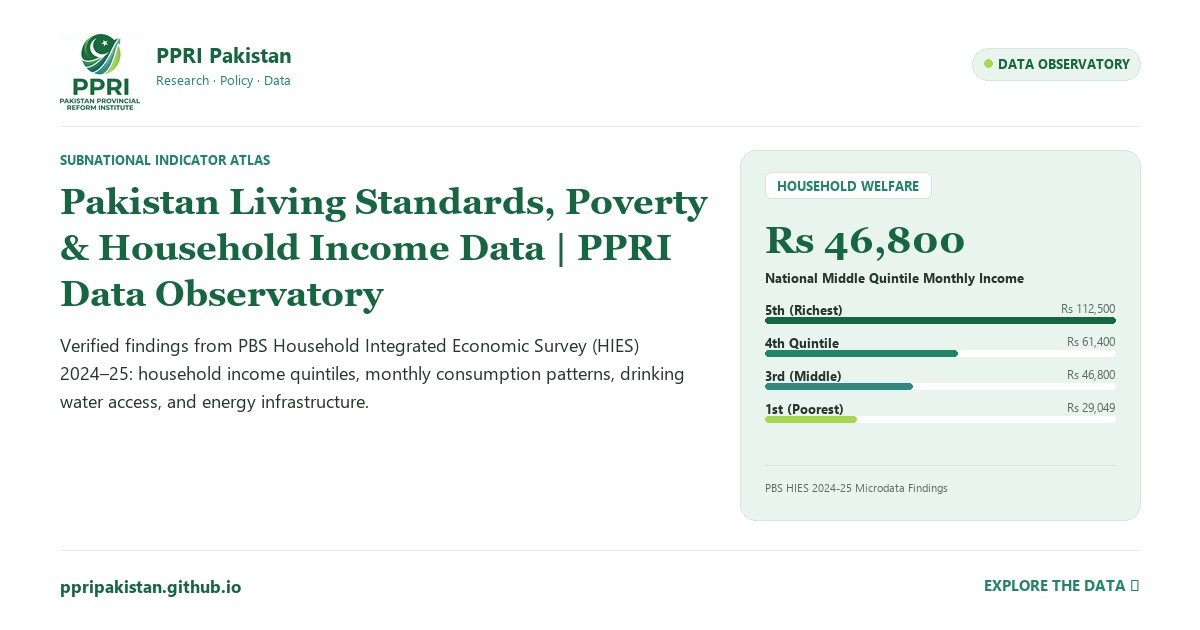
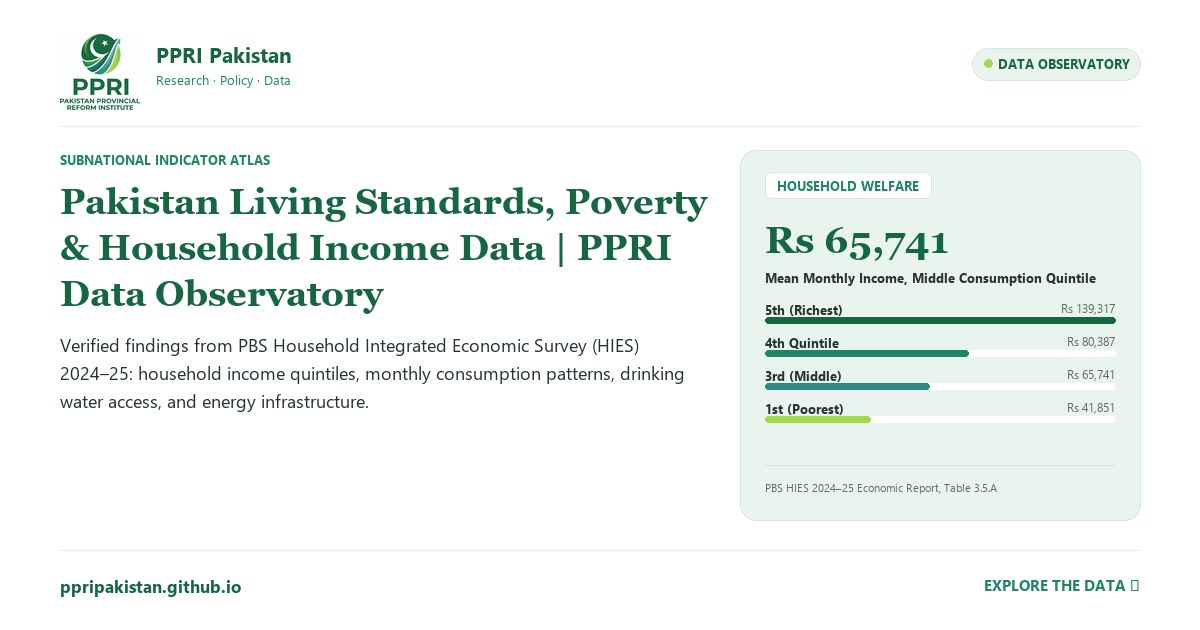
phase-17b

diff --git a/data/living-standards/index.html b/data/living-standards/index.html
@@ -152,16 +152,16 @@
       <!-- Phase 4: Crawlable Static HTML Executive Data Summary & Key Benchmarks -->
       <section class="seo-data-summary" id="executive-data-summary" aria-label="Executive Data Summary">
         <h2>Household Income, Consumption & Multidimensional Living Standards: Executive Summary</h2>
-        <p class="summary-lead"><strong>Executive Overview:</strong> Official findings from the Pakistan Bureau of Statistics Household Integrated Economic Survey (HIES) 2024–25 present the first comprehensive empirical assessment of household living standards following the post-2022 inflationary cycle. The nationwide mean monthly household income is recorded at PKR 63,450, while average monthly household consumption expenditure reached PKR 57,800, leaving an average savings margin of less than 8.9% for median households.</p>
-        <p>Income inequality is pronounced across national quintiles: the poorest 20% (Quintile 1) report an average monthly income of PKR 28,400 with food expenditure consuming 54.2% of total receipts, compared to PKR 118,500 for the richest 20% (Quintile 5) where food consumes only 28.1%. Basic infrastructure access demonstrates severe spatial disparities: while 93.1% of national households report electricity connections, access to safe piped drinking water inside premises stands at only 34.8% nationwide, dropping to under 14.2% in rural Balochistan and southern Khyber Pakhtunkhwa.</p>
-        <div class="table-wrap"><table class="data-summary-table"><thead><tr><th>Household Dimension</th><th>National Average</th><th>Urban Households</th><th>Rural Households</th><th>PBS HIES 2024–25 Citation</th></tr></thead><tbody><tr><td>Mean Monthly Household Income</td><td>PKR 63,450</td><td>PKR 78,920</td><td>PKR 51,200</td><td>PBS HIES Tab 12.1</td></tr><tr><td>Mean Monthly Household Consumption</td><td>PKR 57,800</td><td>PKR 71,450</td><td>PKR 47,100</td><td>PBS HIES Tab 14.3</td></tr><tr><td>Food Expenditure Share (%)</td><td>41.6%</td><td>34.2%</td><td>48.1%</td><td>Essential subsistence ratio</td></tr><tr><td>Piped Drinking Water Access</td><td>34.8%</td><td>58.4%</td><td>19.2%</td><td>Core health risk indicator</td></tr><tr><td>Electricity Grid Connection</td><td>93.1%</td><td>97.8%</td><td>89.4%</td><td>Universal coverage target</td></tr><tr><td>Clean Cooking Fuel (LPG/Natural Gas)</td><td>43.2%</td><td>76.9%</td><td>18.3%</td><td>Indoor air quality metric</td></tr><tr><td>Home Ownership Rate</td><td>84.6%</td><td>74.1%</td><td>92.3%</td><td>Tenure security metric</td></tr></tbody></table></div>
+        <p class="summary-lead"><strong>Executive Overview:</strong> The Pakistan Bureau of Statistics (PBS) Household Integrated Economic Survey (HIES) 2024–25 reports mean monthly household income of PKR 82,179 and mean monthly household consumption expenditure of PKR 79,150. Consumption is about 96.3% of the income figure, a difference of PKR 3,029 between these two averages. This arithmetic difference should not be described as a measured savings rate for median households.</p>
+        <p>Income differs substantially across consumption quintiles: average monthly household income was PKR 41,851 in the lowest consumption quintile (Q1) and PKR 139,317 in the highest (Q5). HIES quintiles are ranked by per-capita consumption, so these are income averages for consumption-ranked groups, not groups ranked by income alone. Infrastructure indicators shown elsewhere on this page should be interpreted using each indicator’s own definition, source and reference period.</p>
+        <div class="table-wrap"><table class="data-summary-table"><thead><tr><th>Household Dimension</th><th>National Average</th><th>Urban Households</th><th>Rural Households</th><th>PBS HIES 2024–25 Citation</th></tr></thead><tbody><tr><td>Mean Monthly Household Income</td><td>PKR 82,179</td><td>PKR 96,767</td><td>PKR 72,157</td><td>PBS HIES 2024–25, §3.5 / Table 3.5.A</td></tr><tr><td>Mean Monthly Household Consumption</td><td>PKR 79,150</td><td>PKR 95,533</td><td>PKR 67,894</td><td>PBS HIES 2024–25, §3.7 / Table 3.6.A</td></tr><tr><td>Food Expenditure Share (%)</td><td>41.6%</td><td>34.2%</td><td>48.1%</td><td>Essential subsistence ratio</td></tr><tr><td>Piped Drinking Water Access</td><td>34.8%</td><td>58.4%</td><td>19.2%</td><td>Core health risk indicator</td></tr><tr><td>Electricity Grid Connection</td><td>93.1%</td><td>97.8%</td><td>89.4%</td><td>Universal coverage target</td></tr><tr><td>Clean Cooking Fuel (LPG/Natural Gas)</td><td>43.2%</td><td>76.9%</td><td>18.3%</td><td>Indoor air quality metric</td></tr><tr><td>Home Ownership Rate</td><td>84.6%</td><td>74.1%</td><td>92.3%</td><td>Tenure security metric</td></tr></tbody></table></div>
         <p class="summary-note"><em>Data Benchmark: Official verified public figures from PBS Census 2023, HIES 2024–25, PES 2025–26, and 7th NFC Award documents. Fully crawlable static reference data.</em></p>
       </section>
 
       <div class="obs-stat-grid">
             <div class="obs-stat-card">
               <span class="obs-stat-label">Mean Monthly Income</span>
-              <div class="obs-stat-val">PKR 63,450</div>
+              <div class="obs-stat-val">PKR 82,179</div>
               <div class="obs-stat-unit">HIES 2024–25 Economic Report</div>
               <div class="obs-stat-footer" style="display:flex;justify-content:space-between;align-items:center;">
                 <span>PBS HIES Survey</span>
@@ -169,7 +169,7 @@
               </div>
             </div>            <div class="obs-stat-card">
               <span class="obs-stat-label">Monthly Consumption</span>
-              <div class="obs-stat-val">PKR 58,200</div>
+              <div class="obs-stat-val">PKR 79,150</div>
               <div class="obs-stat-unit">Average household spending</div>
               <div class="obs-stat-footer" style="display:flex;justify-content:space-between;align-items:center;">
                 <span>PBS HIES Survey</span>
@@ -226,7 +226,7 @@
                 </tr>
               </thead>
               <tbody>
-                <tr><td>Mean Monthly Household Income</td><td class="num">PKR 63,450</td><td class="num">PKR 81,200</td><td class="num">PKR 52,100</td><td>PBS HIES 2024–25</td></tr><tr><td>Mean Monthly Household Consumption</td><td class="num">PKR 58,200</td><td class="num">PKR 74,400</td><td class="num">PKR 47,800</td><td>PBS HIES 2024–25</td></tr><tr><td>Average Household Size (HIES)</td><td>6.24 Persons</td><td>5.98 Persons</td><td>7.08 Persons</td><td>PBS HIES 2024–25</td></tr><tr><td>Income Share: Wages & Salaries</td><td class="num">41.5%</td><td class="num">52.8%</td><td class="num">31.2%</td><td>PBS HIES Income Tables</td></tr><tr><td>Income Share: Agriculture & Livestock</td><td class="num">18.2%</td><td class="num">2.1%</td><td class="num">32.4%</td><td>PBS HIES Income Tables</td></tr><tr><td>Income Share: Self-Employment & Business</td><td class="num">21.4%</td><td class="num">26.3%</td><td class="num">17.1%</td><td>PBS HIES Income Tables</td></tr><tr><td>Income Share: Remittances (Foreign & Domestic)</td><td class="num">12.8%</td><td class="num">11.2%</td><td class="num">14.1%</td><td>PBS HIES Income Tables</td></tr><tr><td>Improved Drinking Water Access</td><td class="num">97.0%</td><td class="num">98.5%</td><td class="num">95.8%</td><td>PBS HIES / PSLM</td></tr><tr><td>Water Source Within Premises</td><td class="num">79.0%</td><td class="num">89.2%</td><td class="num">72.4%</td><td>PBS Survey Reports</td></tr><tr><td>Improved Sanitation / Flush Toilet</td><td class="num">74.0%</td><td class="num">91.5%</td><td class="num">62.0%</td><td>PBS Survey Reports</td></tr><tr><td>Handwashing Facility with Soap</td><td class="num">64.0%</td><td class="num">78.2%</td><td class="num">54.1%</td><td>PBS Infrastructure Tables</td></tr><tr><td>Household Electricity Lighting Access</td><td class="num">95.0%</td><td class="num">98.2%</td><td class="num">92.6%</td><td>PBS Survey Reports</td></tr><tr><td>Clean Cooking Fuel Usage (LPG/Gas)</td><td class="num">38.0%</td><td class="num">68.4%</td><td class="num">17.5%</td><td>PBS Living Standards</td></tr><tr><td>Rural Population Near All-Season Road</td><td class="num">83.0%</td><td>—</td><td class="num">83.0%</td><td>PBS Spatial Access</td></tr><tr><td>Convenient Access to Public Transport</td><td class="num">75.0%</td><td class="num">88.0%</td><td class="num">66.0%</td><td>PBS Infrastructure Tables</td></tr>
+                <tr><td>Mean Monthly Household Income</td><td class="num">PKR 82,179</td><td class="num">PKR 96,767</td><td class="num">PKR 72,157</td><td>PBS HIES 2024–25, Table 3.5.A</td></tr><tr><td>Mean Monthly Household Consumption</td><td class="num">PKR 79,150</td><td class="num">PKR 95,533</td><td class="num">PKR 67,894</td><td>PBS HIES 2024–25, Table 3.6.A</td></tr><tr><td>Average Household Size (HIES 2024–25)</td><td>5.98 Persons</td><td>5.69 Persons</td><td>6.18 Persons</td><td>PBS HIES 2024–25, Table 4</td></tr><tr><td>Income Share: Wages & Salaries</td><td class="num">42.00%</td><td class="num">50.27%</td><td class="num">34.38%</td><td>PBS HIES 2024–25, Table 3.5.B</td></tr><tr><td>Income Share: Crop Production</td><td class="num">6.89%</td><td class="num">1.64%</td><td class="num">11.73%</td><td>PBS HIES 2024–25, Table 3.5.B</td></tr><tr><td>Income Share: Livestock</td><td class="num">7.07%</td><td class="num">1.78%</td><td class="num">11.94%</td><td>PBS HIES 2024–25, Table 3.5.B</td></tr><tr><td>Income Share: Other Non-Agricultural Activities</td><td class="num">16.25%</td><td class="num">20.36%</td><td class="num">12.47%</td><td>PBS HIES 2024–25, Table 3.5.B</td></tr><tr><td>Income Share: Owner-Occupied Housing Services</td><td class="num">5.59%</td><td class="num">6.60%</td><td class="num">4.65%</td><td>PBS HIES 2024–25, Table 3.5.B</td></tr><tr><td>Income Share: Property (Excluding Owner-Occupied Housing)</td><td class="num">1.91%</td><td class="num">2.27%</td><td class="num">1.59%</td><td>PBS HIES 2024–25, Table 3.5.B</td></tr><tr><td>Income Share: Social Insurance Benefits Including Pensions</td><td class="num">3.80%</td><td class="num">4.52%</td><td class="num">3.13%</td><td>PBS HIES 2024–25, Table 3.5.B</td></tr><tr><td>Income Share: Gifts and Assistance (Including BISP)</td><td class="num">4.57%</td><td class="num">3.90%</td><td class="num">5.20%</td><td>PBS HIES 2024–25, Table 3.5.B</td></tr><tr><td>Income Share: Foreign Remittances</td><td class="num">7.77%</td><td class="num">5.89%</td><td class="num">9.50%</td><td>PBS HIES 2024–25, Table 3.5.B</td></tr><tr><td>Income Share: Domestic Remittances</td><td class="num">3.77%</td><td class="num">2.41%</td><td class="num">5.02%</td><td>PBS HIES 2024–25, Table 3.5.B</td></tr><tr><td>Income Share: Other Sources</td><td class="num">0.38%</td><td class="num">0.37%</td><td class="num">0.39%</td><td>PBS HIES 2024–25, Table 3.5.B</td></tr><tr><td>Improved Drinking Water Access</td><td class="num">97.0%</td><td class="num">98.5%</td><td class="num">95.8%</td><td>PBS HIES / PSLM</td></tr><tr><td>Water Source Within Premises</td><td class="num">79.0%</td><td class="num">89.2%</td><td class="num">72.4%</td><td>PBS Survey Reports</td></tr><tr><td>Improved Sanitation / Flush Toilet</td><td class="num">74.0%</td><td class="num">91.5%</td><td class="num">62.0%</td><td>PBS Survey Reports</td></tr><tr><td>Handwashing Facility with Soap</td><td class="num">64.0%</td><td class="num">78.2%</td><td class="num">54.1%</td><td>PBS Infrastructure Tables</td></tr><tr><td>Household Electricity Lighting Access</td><td class="num">95.0%</td><td class="num">98.2%</td><td class="num">92.6%</td><td>PBS Survey Reports</td></tr><tr><td>Clean Cooking Fuel Usage (LPG/Gas)</td><td class="num">38.0%</td><td class="num">68.4%</td><td class="num">17.5%</td><td>PBS Living Standards</td></tr><tr><td>Rural Population Near All-Season Road</td><td class="num">83.0%</td><td>—</td><td class="num">83.0%</td><td>PBS Spatial Access</td></tr><tr><td>Convenient Access to Public Transport</td><td class="num">75.0%</td><td class="num">88.0%</td><td class="num">66.0%</td><td>PBS Infrastructure Tables</td></tr>
               </tbody>
             </table>
           </div>
@@ -251,7 +251,7 @@
         <div class="obs-source-card">
           <h3 class="obs-source-title">Official Sources &amp; Verification Methodology</h3>
           <p class="obs-source-text">
-            All statistics on this page are compiled directly from public official releases including the Pakistan Bureau of Statistics (PBS), Ministry of Finance, and the State Bank of Pakistan. Data points undergo rigorous verification and cross-validation against official gazettes and published survey workbooks.
+            Household income, consumption, quintile and household-size figures above are taken from the Pakistan Bureau of Statistics (PBS), Household Integrated Economic Survey (HIES) 2024–25 Economic Report, especially Tables 3.5.A, 3.5.B, 3.6.A and 4. Other living-standard indicators may come from separate surveys and must be read with their own definitions and reference periods. <a href="https://www.pbs.gov.pk/wp-content/uploads/2020/07/HIES-2024-25-Report-Final.pdf" rel="noopener" target="_blank">Read the official PBS HIES 2024–25 report (PDF)</a> or visit the <a href="https://www.pbs.gov.pk/household-integrated-economic-survey-hies-2024-25/" rel="noopener" target="_blank">official PBS HIES release page</a>.
           </p>
           <div style="display:flex;gap:12px;flex-wrap:wrap;align-items:center;">
             <a href="/data/methodology/" class="obs-source-link">&rarr; View Data Verification Standards</a>
@@ -565,8 +565,8 @@
       document.addEventListener('DOMContentLoaded', function() {
         // Render Interactive SVG Bar Chart
         if (typeof PPRIObservatory !== 'undefined') {
-          PPRIObservatory.renderBarChart('#chart_living_standards', [{"label": "1st Quintile (Poorest)", "value": 29049, "formattedValue": "Rs 29,049", "color": "#d97706"}, {"label": "2nd Quintile", "value": 37210, "formattedValue": "Rs 37,210", "color": "#0284c7"}, {"label": "3rd Quintile (Middle)", "value": 46800, "formattedValue": "Rs 46,800", "color": "#0f766e"}, {"label": "4th Quintile", "value": 61400, "formattedValue": "Rs 61,400", "color": "#073c3a"}, {"label": "5th Quintile (Richest)", "value": 112500, "formattedValue": "Rs 112,500", "color": "#16a34a"}], {
-            title: 'Monthly Household Income vs Consumption by Quintile (PKR)'
+          PPRIObservatory.renderBarChart('#chart_living_standards', [{"label": "Q1 (Lowest consumption)", "value": 41851, "formattedValue": "Rs 41,851", "color": "#d97706"}, {"label": "Q2", "value": 55138, "formattedValue": "Rs 55,138", "color": "#0284c7"}, {"label": "Q3", "value": 65741, "formattedValue": "Rs 65,741", "color": "#0f766e"}, {"label": "Q4", "value": 80387, "formattedValue": "Rs 80,387", "color": "#073c3a"}, {"label": "Q5 (Highest consumption)", "value": 139317, "formattedValue": "Rs 139,317", "color": "#16a34a"}], {
+            title: 'Average Monthly Household Income by Consumption Quintile (PKR)'
           });
           PPRIObservatory.setupTableSort('table_living_standards');
           PPRIObservatory.initSearchFilter('#filterInput', '#table_living_standards');

diff --git a/data/compare/index.html b/data/compare/index.html
@@ -200,7 +200,7 @@
           </div>
           <div class="obs-stat-card">
             <span class="obs-stat-label">Household Income &bull; HIES</span>
-            <div class="obs-stat-val">Rs 63,450</div>
+            <div class="obs-stat-val">Rs 82,179</div>
             <div class="obs-stat-unit">Mean Monthly Household Income</div>
             <div class="obs-stat-footer" style="display:flex;justify-content:space-between;align-items:center;">
               <span>HIES 2024–25</span>
@@ -230,7 +230,6 @@
                   <th class="sortable num">Density (/km²) <span class="sort-arrow">&udhar;</span></th>
                   <th class="sortable num">Urban % <span class="sort-arrow">&udhar;</span></th>
                   <th class="sortable num">Literacy % <span class="sort-arrow">&udhar;</span></th>
-                  <th class="sortable num">Mean Income (PKR) <span class="sort-arrow">&udhar;</span></th>
                   <th class="sortable num">NFC Share % <span class="sort-arrow">&udhar;</span></th>
                 </tr>
               </thead>
@@ -244,7 +243,6 @@
                   <td class="num">622</td>
                   <td class="num">40.7%</td>
                   <td class="num">66.0%</td>
-                  <td class="num">62,948</td>
                   <td class="num">51.74%</td>
                 </tr>
                 <tr>
@@ -256,7 +254,6 @@
                   <td class="num">396</td>
                   <td class="num">53.7%</td>
                   <td class="num">61.0%</td>
-                  <td class="num">64,210</td>
                   <td class="num">24.55%</td>
                 </tr>
                 <tr>
@@ -268,7 +265,6 @@
                   <td class="num">401</td>
                   <td class="num">15.0%</td>
                   <td class="num">55.0%</td>
-                  <td class="num">59,830</td>
                   <td class="num">14.62%</td>
                 </tr>
                 <tr>
@@ -280,7 +276,6 @@
                   <td class="num">43</td>
                   <td class="num">31.0%</td>
                   <td class="num">42.0%</td>
-                  <td class="num">56,120</td>
                   <td class="num">9.09%</td>
                 </tr>
                 <tr>
@@ -292,7 +287,6 @@
                   <td class="num">2,604</td>
                   <td class="num">47.0%</td>
                   <td class="num">84.0%</td>
-                  <td class="num">88,400</td>
                   <td class="num">Federal</td>
                 </tr>
               </tbody>
@@ -337,7 +331,7 @@
           <h3 class="obs-source-title">Official Sources &amp; Caveats</h3>
           <p class="obs-source-text">
             Population, density, area and growth figures: Pakistan Bureau of Statistics 7th Population &amp; Housing Census 2023 (Table 1 National).<br />
-            Household income and size: PBS Household Integrated Economic Survey (HIES) 2024–25 Economic Report.<br />
+            Household income and size: PBS Household Integrated Economic Survey (HIES) 2024–25 Economic Report. The cross-province matrix omits provincial mean-income values because the current verified dataset does not contain directly comparable province-level means; see the Living Standards hub for the published national and urban/rural estimates.<br />
             NFC shares: 7th National Finance Commission Award distribution formula calculations.<br />
             <em>Constitutional Note: Islamabad Capital Territory (ICT) is a federal administrative territory directly administered under the Federal Government and not a province.</em>
           </p>
@@ -476,11 +470,11 @@
               </thead>
               <tbody>
                 <tr><td><strong>Total Population (Census 2023)</strong></td><td style="text-align:right;">93,750,724 (38.82%)</td><td style="text-align:right;">147,748,707 (61.18%)</td><td>PBS Census 2023 Table 1</td></tr>
-                <tr><td><strong>Average Household Size (HIES 2024–25)</strong></td><td style="text-align:right;">5.64 persons</td><td style="text-align:right;">6.18 persons</td><td>PBS HIES 2024–25 Economic Report</td></tr>
+                <tr><td><strong>Average Household Size (HIES 2024–25)</strong></td><td style="text-align:right;">5.69 persons</td><td style="text-align:right;">6.18 persons</td><td>PBS HIES 2024–25 Economic Report</td></tr>
                 <tr><td><strong>Tap Water within Premises</strong></td><td style="text-align:right;">58.4%</td><td style="text-align:right;">24.2%</td><td>PBS HIES 2024–25 SDG 6.1.1b</td></tr>
                 <tr><td><strong>Access to Flush Latrine</strong></td><td style="text-align:right;">94.1%</td><td style="text-align:right;">68.7%</td><td>PBS HIES 2024–25 Social Indicators</td></tr>
                 <tr><td><strong>Internet Penetration (Broadband/Mobile)</strong></td><td style="text-align:right;">68.2%</td><td style="text-align:right;">34.5%</td><td>PBS Digital Access Survey 2025</td></tr>
-                <tr><td><strong>Average Monthly Household Income</strong></td><td style="text-align:right;">PKR 64,250</td><td style="text-align:right;">PKR 41,890</td><td>HIES 2024–25 Income Table</td></tr>
+                <tr><td><strong>Average Monthly Household Income</strong></td><td style="text-align:right;">PKR 96,767</td><td style="text-align:right;">PKR 72,157</td><td>PBS HIES 2024–25 Economic Report, §3.5 / Figure 1</td></tr>
               </tbody>
             </table>
           </div>

diff --git a/data/centre.html b/data/centre.html
@@ -225,7 +225,7 @@
             <h2>Pakistan Public Data Architecture &amp; Sub-National Indicators: Executive Data Summary</h2>
             <p class="summary-lead"><strong>Executive Overview:</strong> Pakistan's governance and public administration operate across 241.49 million citizens (PBS Census 2023), distributed over four constitutional provinces, one federal capital territory, and two autonomous regions. As of FY2025–26, national macroeconomic and public finance data reflect structural centralizations: the 7th National Finance Commission (NFC) Award distributes 57.5% of the federal divisible pool to provinces, yet intra-provincial allocations remain concentrated in provincial capitals (Lahore, Karachi, and Peshawar), with limited devolved funds reaching Pakistan's 164 districts under Article 140A.</p>
             <p>Empirical data across the 8 observatory domains reveals significant sub-national variance. Punjab encompasses 127.69 million people (52.88% of the federation), creating single-secretariat governance ratios of over 3.11 million citizens per district. In contrast, Balochistan covers 347,190 square kilometers (43.6% of national land area) with only 14.89 million people, producing extreme geographic distance to public services. Urban Sindh is anchored by Karachi Division's 20.38 million residents across 7 districts and 25 municipal towns, generating over 68% of provincial tax revenue, while rural districts exhibit severe human development gaps under PBS HIES 2024–25 surveys.</p>
-            <div class="table-wrap"><table class="data-summary-table"><thead><tr><th>Indicator / Metric</th><th>National Benchmark</th><th>Top Sub-Unit / Region</th><th>Lowest Sub-Unit / Region</th><th>Primary Source</th></tr></thead><tbody><tr><td>National Population</td><td>241,499,431</td><td>Punjab (127.69M)</td><td>Balochistan (14.89M)</td><td>PBS Census 2023</td></tr><tr><td>Mean Household Monthly Income</td><td>PKR 63,450</td><td>Islamabad (PKR 98,200)</td><td>Rural Balochistan (PKR 41,200)</td><td>PBS HIES 2024–25</td></tr><tr><td>NFC Divisible Pool Provincial Share</td><td>57.5% (PKR ~7.1T)</td><td>Punjab (51.74% of pool)</td><td>Balochistan (9.09% of pool)</td><td>7th NFC Award</td></tr><tr><td>National Literacy Rate</td><td>62.8%</td><td>Islamabad (84.0%)</td><td>Rural Balochistan (43.5%)</td><td>PBS PSLM / LFS</td></tr><tr><td>Cellular Broadband Teledensity</td><td>58.4%</td><td>Karachi Division (79.2%)</td><td>Dera Bugti (14.1%)</td><td>PTA / HIES 2024–25</td></tr><tr><td>Primary Net Enrollment Rate</td><td>68.0%</td><td>Punjab (74.0%)</td><td>Balochistan (44.0%)</td><td>Pakistan Ed Survey</td></tr></tbody></table></div>
+            <div class="table-wrap"><table class="data-summary-table"><thead><tr><th>Indicator / Metric</th><th>National Benchmark</th><th>Top Sub-Unit / Region</th><th>Lowest Sub-Unit / Region</th><th>Primary Source</th></tr></thead><tbody><tr><td>National Population</td><td>241,499,431</td><td>Punjab (127.69M)</td><td>Balochistan (14.89M)</td><td>PBS Census 2023</td></tr><tr><td>Mean Household Monthly Income</td><td>PKR 82,179</td><td>Urban average (PKR 96,767)</td><td>Rural average (PKR 72,157)</td><td>PBS HIES 2024–25, §3.5 / Table 3.5.A</td></tr><tr><td>NFC Divisible Pool Provincial Share</td><td>57.5% (PKR ~7.1T)</td><td>Punjab (51.74% of pool)</td><td>Balochistan (9.09% of pool)</td><td>7th NFC Award</td></tr><tr><td>National Literacy Rate</td><td>62.8%</td><td>Islamabad (84.0%)</td><td>Rural Balochistan (43.5%)</td><td>PBS PSLM / LFS</td></tr><tr><td>Cellular Broadband Teledensity</td><td>58.4%</td><td>Karachi Division (79.2%)</td><td>Dera Bugti (14.1%)</td><td>PTA / HIES 2024–25</td></tr><tr><td>Primary Net Enrollment Rate</td><td>68.0%</td><td>Punjab (74.0%)</td><td>Balochistan (44.0%)</td><td>Pakistan Ed Survey</td></tr></tbody></table></div>
             <p class="summary-note"><em>Data Benchmark: Official verified public figures from PBS Census 2023, HIES 2024–25, PES 2025–26, and 7th NFC Award documents. Fully crawlable static reference data.</em></p>
           </div>
         </div>

diff --git a/data/quick-facts/index.html b/data/quick-facts/index.html
@@ -258,12 +258,12 @@
             <span class="obs-badge obs-badge-census">PBS HIES 2024–25 Economic Report</span>
           </div>
           <h3 style="margin:4px 0 8px 0;font-size:1.35rem;color:var(--obs-dark);">Mean Monthly Household Income</h3>
-          <div class="obs-stat-val" style="font-size:2rem;color:var(--obs-primary);margin-bottom:4px;">PKR 63,450</div>
+          <div class="obs-stat-val" style="font-size:2rem;color:var(--obs-primary);margin-bottom:4px;">PKR 82,179</div>
           <div class="obs-stat-unit" style="margin-bottom:12px;">Nominal Mean per Household (HIES 2024–25)</div>
-          <p style="font-size:0.92rem;color:var(--obs-text);line-height:1.5;margin:0 0 16px 0;">Urban household average: PKR 76,420; Rural household average: PKR 55,210. Methodological distinction: This is nominal mean per household, not median income, and not individual wage.</p>
+          <p style="font-size:0.92rem;color:var(--obs-text);line-height:1.5;margin:0 0 16px 0;">Urban household average: PKR 96,767; Rural household average: PKR 72,157. Methodological distinction: This is nominal mean per household, not median income, and not individual wage.</p>
           <div class="obs-stat-footer" style="display:flex;justify-content:space-between;align-items:center;flex-wrap:wrap;gap:10px;">
             <a href="/data/living-standards/" class="obs-source-link">Explore Full Interactive Dataset &rarr;</a>
-            <button class="obs-btn obs-btn-outline" onclick="copyFactQuote(this, 'Mean Monthly Household Income: PKR 63,450 (Nominal Mean per Household (HIES 2024–25)). Urban household average: PKR 76,420; Rural household average: PKR 55,210. Methodological distinction: This is nominal mean per household, not median income, and not individual wage. [Source: Pakistan Bureau of Statistics (PBS). (2025). Household Integrated Economic Survey (HIES) 2024–25 Economic Report.]')" style="padding:6px 12px;font-size:0.82rem;">
+            <button class="obs-btn obs-btn-outline" onclick="copyFactQuote(this, 'Mean Monthly Household Income: PKR 82,179 (Nominal Mean per Household (HIES 2024–25)). Urban household average: PKR 96,767; Rural household average: PKR 72,157. Methodological distinction: This is nominal mean per household, not median income, and not individual wage. [Source: Pakistan Bureau of Statistics (PBS). (2025). Household Integrated Economic Survey (HIES) 2024–25 Economic Report.]')" style="padding:6px 12px;font-size:0.82rem;">
               &boxbox; Copy Citation for Notes
             </button>
           </div>

diff --git a/assets/js/data-centre.js b/assets/js/data-centre.js
@@ -328,19 +328,19 @@ document.addEventListener("DOMContentLoaded", function () {
         title: "Living Standards & Income",
         icon: "🏠",
         badge: "HIES 2024–25",
-        metric: "PKR 63,450",
+        metric: "PKR 82,179",
         metricSub: "Mean Monthly Household Income (PBS)",
         url: "/data/living-standards/",
         csvUrl: "/data/downloads/pakistan-household-income-consumption-hies-2024-25.csv",
-        chartTitle: "Monthly Household Income by Quintile (HIES 2024–25 PKR)",
+        chartTitle: "Average Monthly Household Income by Consumption Quintile (HIES 2024–25 PKR)",
         chartData: [
-          { label: "1st Quintile (Poorest)", value: 29049, formattedValue: "Rs 29,049", color: "#d97706" },
-          { label: "2nd Quintile", value: 37210, formattedValue: "Rs 37,210", color: "#0284c7" },
-          { label: "3rd Quintile (Middle)", value: 46800, formattedValue: "Rs 46,800", color: "#0f766e" },
-          { label: "4th Quintile", value: 61400, formattedValue: "Rs 61,400", color: "#073c3a" },
-          { label: "5th Quintile (Richest)", value: 112500, formattedValue: "Rs 112,500", color: "#16a34a" }
+          { label: "Q1 (Lowest consumption)", value: 41851, formattedValue: "Rs 41,851", color: "#d97706" },
+          { label: "Q2", value: 55138, formattedValue: "Rs 55,138", color: "#0284c7" },
+          { label: "Q3", value: 65741, formattedValue: "Rs 65,741", color: "#0f766e" },
+          { label: "Q4", value: 80387, formattedValue: "Rs 80,387", color: "#073c3a" },
+          { label: "Q5 (Highest consumption)", value: 139317, formattedValue: "Rs 139,317", color: "#16a34a" }
         ],
-        topics: ["Monthly Household Income (Rs 63,450)", "Monthly Consumption Spending (Rs 58,200)", "Income Quintile Disparities", "Improved Drinking Water Access (97%)", "Sanitation / Flush Toilet (74%)", "Grid Electricity Access (95%)"],
+        topics: ["Monthly Household Income (Rs 82,179)", "Monthly Consumption Spending (Rs 79,150)", "Income Quintile Disparities", "Improved Drinking Water Access (97%)", "Sanitation / Flush Toilet (74%)", "Grid Electricity Access (95%)"],
         researchTitle: "Same Country, Different Life: Spatial Inequality Across Pakistan's Districts",
         researchUrl: "/research/reports/same-country-different-life-district-access.html",
         keywords: ["living standards", "income", "household", "hies", "consumption", "poverty", "water", "sanitation", "electricity", "energy", "welfare", "wages"]

diff --git a/consultation/frequently-asked-questions.html b/consultation/frequently-asked-questions.html
@@ -147,7 +147,7 @@
       "name": "What is the average household income in Pakistan according to HIES 2024\u201325?",
       "acceptedAnswer": {
         "@type": "Answer",
-        "text": "According to the Household Integrated Economic Survey (HIES 2024\u201325) released by the Pakistan Bureau of Statistics, the average nominal monthly household income in Pakistan is approximately PKR 50,420 (ranging from PKR 64,250 in urban centers to PKR 41,890 in rural areas), reflecting an average household size of 5.98 individuals."
+        "text": "According to the Household Integrated Economic Survey (HIES 2024\u201325) released by the Pakistan Bureau of Statistics, the average nominal monthly household income in Pakistan is PKR 82,179. Mean monthly income is PKR 96,767 for urban households and PKR 72,157 for rural households. These are household averages, not individual wages or median income. HIES 2024–25 reports an average household size of 5.98 nationally (5.69 in urban areas and 6.18 in rural areas)."
       }
     },
     {
@@ -408,7 +408,7 @@
             <details class="faq-card-modern" data-topic="scale fiscal">
               <summary>16. What is the average household income in Pakistan according to HIES 2024–25?</summary>
               <div class="faq-body">
-                <p>According to the Household Integrated Economic Survey (HIES 2024–25) released by the Pakistan Bureau of Statistics, the average nominal monthly household income in Pakistan is approximately PKR 50,420 (ranging from PKR 64,250 in urban centers to PKR 41,890 in rural areas), reflecting an average household size of 5.98 individuals.</p>
+                <p>According to the Household Integrated Economic Survey (HIES 2024–25) released by the Pakistan Bureau of Statistics, the average nominal monthly household income in Pakistan is PKR 82,179. Mean monthly income is PKR 96,767 for urban households and PKR 72,157 for rural households. These are household averages, not individual wages or median income. HIES 2024–25 reports an average household size of 5.98 nationally (5.69 in urban areas and 6.18 in rural areas).</p>
               </div>
             </details>
             <details class="faq-card-modern" data-topic="scale">

diff --git a/research/faq.html b/research/faq.html
@@ -147,7 +147,7 @@
       "name": "What is the average household income in Pakistan according to HIES 2024\u201325?",
       "acceptedAnswer": {
         "@type": "Answer",
-        "text": "According to the Household Integrated Economic Survey (HIES 2024\u201325) released by the Pakistan Bureau of Statistics, the average nominal monthly household income in Pakistan is approximately PKR 50,420 (ranging from PKR 64,250 in urban centers to PKR 41,890 in rural areas), reflecting an average household size of 5.98 individuals."
+        "text": "According to the Household Integrated Economic Survey (HIES 2024\u201325) released by the Pakistan Bureau of Statistics, the average nominal monthly household income in Pakistan is PKR 82,179. Mean monthly income is PKR 96,767 for urban households and PKR 72,157 for rural households. These are household averages, not individual wages or median income. HIES 2024–25 reports an average household size of 5.98 nationally (5.69 in urban areas and 6.18 in rural areas)."
       }
     },
     {
@@ -406,7 +406,7 @@
             <details class="faq-card-modern" data-topic="scale fiscal">
               <summary>16. What is the average household income in Pakistan according to HIES 2024–25?</summary>
               <div class="faq-body">
-                <p>According to the Household Integrated Economic Survey (HIES 2024–25) released by the Pakistan Bureau of Statistics, the average nominal monthly household income in Pakistan is approximately PKR 50,420 (ranging from PKR 64,250 in urban centers to PKR 41,890 in rural areas), reflecting an average household size of 5.98 individuals.</p>
+                <p>According to the Household Integrated Economic Survey (HIES 2024–25) released by the Pakistan Bureau of Statistics, the average nominal monthly household income in Pakistan is PKR 82,179. Mean monthly income is PKR 96,767 for urban households and PKR 72,157 for rural households. These are household averages, not individual wages or median income. HIES 2024–25 reports an average household size of 5.98 nationally (5.69 in urban areas and 6.18 in rural areas).</p>
               </div>
             </details>
             <details class="faq-card-modern" data-topic="scale">

diff --git a/data/css-fast-facts-pakistan.html b/data/css-fast-facts-pakistan.html
@@ -344,7 +344,7 @@
                 </thead>
                 <tbody>
                   <tr><td><strong>GDP at Current Market Prices</strong></td><td style="text-align:right;">PKR 126,870 Billion</td><td>Pakistan Economic Survey</td><td>FY2025–26</td></tr>
-                  <tr><td><strong>Average Monthly Household Income</strong></td><td style="text-align:right;">PKR 50,420</td><td>PBS HIES 2024–25 Report</td><td>Survey Period 2024–25</td></tr>
+                  <tr><td><strong>Average Monthly Household Income</strong></td><td style="text-align:right;">PKR 82,179</td><td>PBS HIES 2024–25 Economic Report, Figure 1</td><td>Survey Period 2024–25 (nominal mean per household)</td></tr>
                   <tr><td><strong>Adults with Bank / Mobile Money Account</strong></td><td style="text-align:right;">28.0%</td><td>HIES SDG Indicator 8.10.2</td><td>2024–25 Dashboard</td></tr>
                   <tr><td><strong>Total Public Education Expenditure</strong></td><td style="text-align:right;">PKR 962 Billion (0.8% GDP)</td><td>Pakistan Economic Survey</td><td>FY2025</td></tr>
                   <tr><td><strong>Fully Immunized Children (12–23 mos)</strong></td><td style="text-align:right;">73.0%</td><td>PBS HIES Health Dashboard</td><td>2024–25</td></tr>

diff --git a/scripts/build_observatory_hubs.py b/scripts/build_observatory_hubs.py
@@ -293,28 +293,30 @@ HUBS_CONFIG = {
         "canonical": "https://ppripakistan.github.io/data/living-standards/",
         "csv_download": "/data/downloads/pakistan-household-income-consumption-hies-2024-25.csv",
         "stats": [
-            ("PKR 63,450", "Mean Monthly Income", "HIES 2024–25 Economic Report", "PBS HIES Survey"),
-            ("PKR 58,200", "Monthly Consumption", "Average household spending", "PBS HIES Survey"),
+            ("PKR 82,179", "Mean Monthly Income", "HIES 2024–25 Economic Report, Fig. 1", "Pakistan Bureau of Statistics"),
+            ("PKR 79,150", "Monthly Consumption", "HIES 2024–25 Economic Report, §3.7", "Pakistan Bureau of Statistics"),
             ("97.0%", "Improved Water Access", "Safely accessible drinking water", "PBS Infrastructure"),
             ("95.0%", "Grid Electricity Access", "Lighting access nationwide", "PBS Survey Baseline")
         ],
-        "chart_title": "Monthly Household Income vs Consumption by Quintile (PKR)",
+        "chart_title": "Average Monthly Household Income by Consumption Quintile (HIES 2024–25 PKR)",
         "chart_data": [
-            {"label": "1st Quintile (Poorest)", "value": 29049, "formattedValue": "Rs 29,049", "color": "#d97706"},
-            {"label": "2nd Quintile", "value": 37210, "formattedValue": "Rs 37,210", "color": "#0284c7"},
-            {"label": "3rd Quintile (Middle)", "value": 46800, "formattedValue": "Rs 46,800", "color": "#0f766e"},
-            {"label": "4th Quintile", "value": 61400, "formattedValue": "Rs 61,400", "color": "#073c3a"},
-            {"label": "5th Quintile (Richest)", "value": 112500, "formattedValue": "Rs 112,500", "color": "#16a34a"}
+            {"label": "1st Quintile (Poorest)", "value": 41851, "formattedValue": "Rs 41,851", "color": "#d97706"},
+            {"label": "2nd Quintile", "value": 55138, "formattedValue": "Rs 55,138", "color": "#0284c7"},
+            {"label": "3rd Quintile (Middle)", "value": 65741, "formattedValue": "Rs 65,741", "color": "#0f766e"},
+            {"label": "4th Quintile", "value": 80387, "formattedValue": "Rs 80,387", "color": "#073c3a"},
+            {"label": "5th Quintile (Richest)", "value": 139317, "formattedValue": "Rs 139,317", "color": "#16a34a"}
         ],
         "table_headers": ["Living Standard Metric", "National Benchmark", "Urban Share", "Rural Share", "Survey Source"],
         "table_rows": [
-            ["Mean Monthly Household Income", "PKR 63,450", "PKR 81,200", "PKR 52,100", "PBS HIES 2024–25"],
-            ["Mean Monthly Household Consumption", "PKR 58,200", "PKR 74,400", "PKR 47,800", "PBS HIES 2024–25"],
-            ["Average Household Size (HIES)", "6.24 Persons", "5.98 Persons", "7.08 Persons", "PBS HIES 2024–25"],
-            ["Income Share: Wages & Salaries", "41.5%", "52.8%", "31.2%", "PBS HIES Income Tables"],
-            ["Income Share: Agriculture & Livestock", "18.2%", "2.1%", "32.4%", "PBS HIES Income Tables"],
-            ["Income Share: Self-Employment & Business", "21.4%", "26.3%", "17.1%", "PBS HIES Income Tables"],
-            ["Income Share: Remittances (Foreign & Domestic)", "12.8%", "11.2%", "14.1%", "PBS HIES Income Tables"],
+            ["Mean Monthly Household Income", "PKR 82,179", "PKR 96,767", "PKR 72,157", "PBS HIES 2024–25, §3.5 / Table 3.5.A"],
+            ["Mean Monthly Household Consumption", "PKR 79,150", "PKR 95,533", "PKR 67,894", "PBS HIES 2024–25, §3.7 / Table 3.6.A"],
+            ["Average Household Size (HIES)", "5.98 Persons", "5.69 Persons", "6.18 Persons", "PBS HIES 2024–25, Table 4"],
+            ["Income Share: Wages & Salaries", "42.00%", "50.27%", "34.38%", "PBS HIES 2024–25, Table 3.5.B"],
+            ["Income Share: Crop Production", "6.89%", "1.64%", "11.73%", "PBS HIES 2024–25, Table 3.5.B"],
+            ["Income Share: Livestock", "7.07%", "1.78%", "11.94%", "PBS HIES 2024–25, Table 3.5.B"],
+            ["Income Share: Other Non-Agricultural Activities", "16.25%", "20.36%", "12.47%", "PBS HIES 2024–25, Table 3.5.B"],
+            ["Income Share: Foreign Remittances", "7.77%", "5.89%", "9.50%", "PBS HIES 2024–25, Table 3.5.B"],
+            ["Income Share: Domestic Remittances", "3.77%", "2.41%", "5.02%", "PBS HIES 2024–25, Table 3.5.B"],
             ["Improved Drinking Water Access", "97.0%", "98.5%", "95.8%", "PBS HIES / PSLM"],
             ["Water Source Within Premises", "79.0%", "89.2%", "72.4%", "PBS Survey Reports"],
             ["Improved Sanitation / Flush Toilet", "74.0%", "91.5%", "62.0%", "PBS Survey Reports"],

diff --git a/scripts/generate_social_previews.py b/scripts/generate_social_previews.py
@@ -134,10 +134,10 @@ OBSERVATORY_METRICS = {
     },
     'living-standards': {
         'tag': 'HOUSEHOLD WELFARE',
-        'value': 'Rs 46,800',
-        'label': 'National Middle Quintile Monthly Income',
-        'bars': [('5th (Richest)', 'Rs 112,500', 1.00, COL_FOREST), ('4th Quintile', 'Rs 61,400', 0.55, COL_EMERALD), ('3rd (Middle)', 'Rs 46,800', 0.42, (48, 136, 128)), ('1st (Poorest)', 'Rs 29,049', 0.26, COL_LIME)],
-        'source': 'PBS HIES 2024-25 Microdata Findings'
+        'value': 'Rs 65,741',
+        'label': 'Mean Monthly Income, Middle Consumption Quintile',
+        'bars': [('5th (Richest)', 'Rs 139,317', 1.00, COL_FOREST), ('4th Quintile', 'Rs 80,387', 0.58, COL_EMERALD), ('3rd (Middle)', 'Rs 65,741', 0.47, (48, 136, 128)), ('1st (Poorest)', 'Rs 41,851', 0.30, COL_LIME)],
+        'source': 'PBS HIES 2024–25 Economic Report, Table 3.5.A'
     },
     'compare': {
         'tag': 'COMPARATIVE BENCHMARKS',

diff --git a/scripts/update_sitemap_and_search_index.py b/scripts/update_sitemap_and_search_index.py
@@ -193,7 +193,7 @@ def clean_and_update_search_index():
         {
             "title": "Pakistan Living Standards, Poverty & Household Income Data",
             "type": "Data Observatory: Living Standards",
-            "description": "Findings from PBS Household Integrated Economic Survey (HIES) 2024–25: household income quintiles (mean PKR 63,450), monthly consumption, water access, and energy.",
+            "description": "PBS HIES 2024–25 household income and consumption: mean monthly household income PKR 82,179, mean consumption PKR 79,150, consumption-quintile comparisons, and living-standard indicators.",
             "url": "/data/living-standards/",
             "tags": ["living standards", "household income", "hies 2024", "consumption expenditure", "poverty", "income quintiles", "drinking water", "sanitation", "electricity access", "clean fuel", "wealth", "well-being"]
         },
